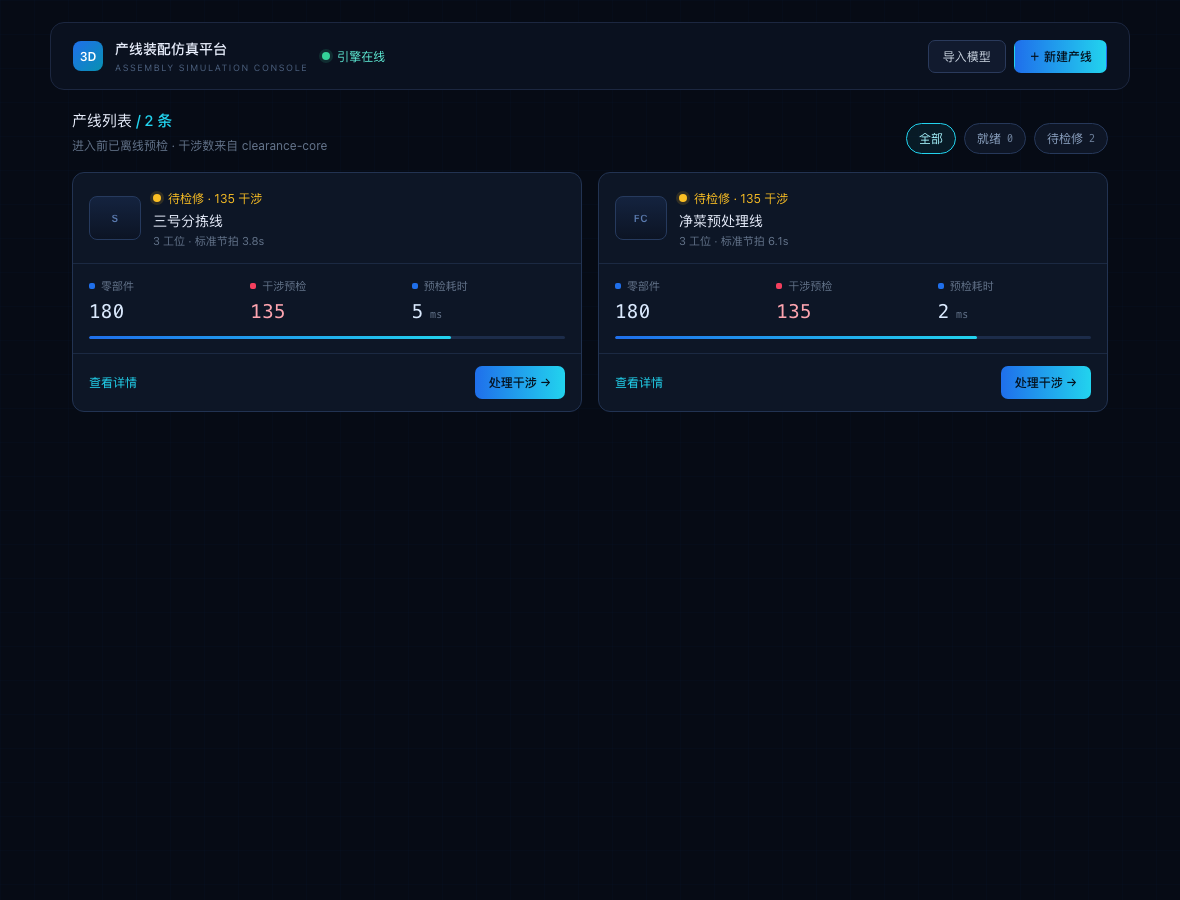
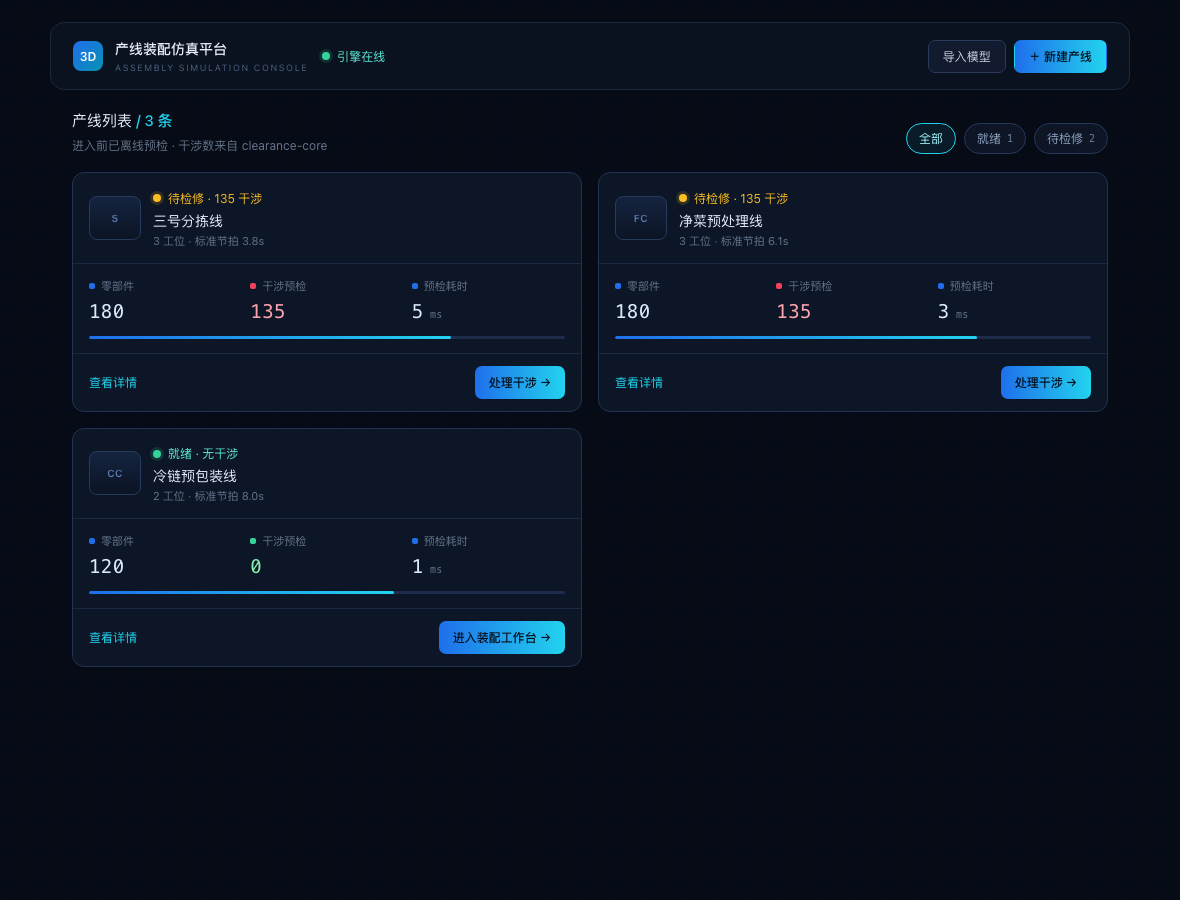
feat(data): 清洁就绪产线种子，E2E 呈现 design B1/B2 绿红双态
- interference-svc synthesizePartsForLine 对 kind=cold-chain 改全稀疏无 jitter 布局
  （4 单位间距、半长 0.5），离线预检稳定 0 干涉
- assembly-svc line-cold-01 启用（enabled: false → true），并把播种改为按 id 同步 enabled
  字段（demo 状态可演进，无需清盘仓储）
- 产线选择页 E2E 截图更新：3 条产线、就绪 1（冷链 0 命中）/ 待检修 2（分拣 135 / 净菜 135）
  真实对照 design 稿页面 A 的 B1 绿就绪 + B2 红告警双态
- FEAT-20260903-001 resolved

diff --git a/services/interference-svc/src/geometryCatalog.ts b/services/interference-svc/src/geometryCatalog.ts
@@ -7,6 +7,12 @@ import { obbFromCenterHalfExtents } from '@assemble/clearance-core';
  * 这里以确定性伪随机产出，用于验证「服务端离线批量干涉预检」整条链路。
  *
  * 布局策略与单测一致：分段密集、段间稀疏，让 BVH broad phase 体现剔除价值。
+ *
+ * 产线 kind 差异（FEAT-20260903-001）：
+ *   - `cold-chain` 采用「全稀疏无 jitter」布局 —— 代表优化装配的冷链线，
+ *     离线预检稳定 0 干涉（hitCount === 0），使产线选择页能呈现「就绪·无干涉(绿)」
+ *     与「待检修·干涉告警(红)」双态真实对照，匹配 design 稿页面 A 的 B1/B2 演示。
+ *   - 其余 kind 保持原 jitter 策略，制造真实命中以体现 BVH 检测价值。
  */
 export interface SyntheticPart {
   partId: string;
@@ -18,6 +24,23 @@ export function synthesizePartsForLine(
   totalParts: number,
   clusterSize = 12,
 ): SyntheticPart[] {
+  // 冷链线（装配优化线）走稀疏布局：间距 4 单位、半长 0.5 → 同线内无重叠
+  if (lineKind === 'cold-chain') {
+    const parts: SyntheticPart[] = [];
+    for (let i = 0; i < totalParts; i++) {
+      const col = i % 10;
+      const row = Math.floor(i / 10);
+      const cx = col * 4;
+      const cy = row * 4;
+      const cz = 0;
+      parts.push({
+        partId: `${lineKind}-${String(i).padStart(3, '0')}`,
+        obb: obbFromCenterHalfExtents([cx, cy, cz], [0.5, 0.5, 0.5]),
+      });
+    }
+    return parts;
+  }
+
   const parts: SyntheticPart[] = [];
   for (let i = 0; i < totalParts; i++) {
     const seg = Math.floor(i / clusterSize);

diff --git a/services/assembly-svc/src/repositories/index.ts b/services/assembly-svc/src/repositories/index.ts
@@ -47,7 +47,7 @@ export function buildSeedLines(): ProductionLine[] {
       name: '冷链预包装线',
       kind: 'cold-chain',
       modelVersion: 'sha3-v2.0.0',
-      enabled: false,
+      enabled: true,
       createdAt: now,
       updatedAt: now,
       stations: [
@@ -69,12 +69,17 @@ export function createAssemblyRepos(): AssemblyRepos {
   );
   const repos: AssemblyRepos = { lines };
 
-  // 首次运行播种
+  // 首次运行播种：空时插入种子；已有时按 id 同步种子最新字段（保证 demo 状态可演进）
   void (async () => {
     const existing = await lines.list();
-    if (existing.length === 0) {
-      for (const line of buildSeedLines()) {
-        await lines.upsert(line);
+    const byId = new Map(existing.map((l) => [l.id, l]));
+    for (const seed of buildSeedLines()) {
+      const cur = byId.get(seed.id);
+      if (!cur) {
+        await lines.upsert(seed);
+      } else if (cur.enabled !== seed.enabled) {
+        // 种子字段（如 enabled）变化时同步到仓储，便于 demo 状态演进无需清盘
+        await lines.upsert({ ...cur, enabled: seed.enabled, updatedAt: seed.updatedAt });
       }
     }
   })();

diff --git a/CHANGELOG.md b/CHANGELOG.md
@@ -61,13 +61,15 @@ M1 收尾 · 单条产线 Demo —— **后端服务层跑通 + 前端 SimEngine
   - 装配工作台：路由占位，演示 `createSimEngine()` 工厂注入（待 Babylon 接入替换 canvas）
   - 工程基线：vue3.5 + vue-router4 + vite5 + vue-tsc；dev 代理 `/lines → 7101` `/interference → 7102`
   - 单测 14 例全绿：10 例门面契约 + 4 例健康派生态（ready/attention/disabled 语义锁定）
-- 视觉验收截图归档：`docs/line-select-v0.2.0-frontend.png`
+- 视觉验收截图归档：`docs/line-select-v0.2.0-frontend.png`（含「就绪·无干涉」绿卡 +「待检修·135 干涉」红卡双态）
+- interference-svc 冷链线（`kind=cold-chain`）改用全稀疏无 jitter 布局，离线预检稳定 0 干涉
+- assembly-svc 启用 `line-cold-01`（冷链预包装线），并把播种逻辑改为按 id 同步 enabled 字段（demo 状态可演进）
 
 ### Verified
 
 - 5 服务 `GET /healthz` 均 200
 - interference 性能（HTTP 实测）：500 件 19.6ms、**2000 件 33.4ms**，BVH broad phase 剔除率 99.9%（远超 200 件 <200ms 门禁）
-- 产线选择页 E2E（playwright 截图）：前端真调通 assembly-svc(`/lines`)+ interference-svc(`/interference/offline`)，KPI（180 零部件 / 135 命中 / 5ms 预检耗时）实时来自 clearance-core
+- 产线选择页 E2E（playwright 截图）：前端真调通 assembly-svc(`/lines`)+ interference-svc(`/interference/offline`)，KPI（180 零部件 / 135 命中 / 5ms 预检耗时）实时来自 clearance-core；冷链线（cold-chain）实测 0 干涉→「就绪·无干涉」绿卡，绿/红双态真实对照 design 稿 B1/B2
 - 根 vitest 23 例回归绿（clearance-core 7 + sim-utils 3 × hoisted 3 + sim-platform 14 独立运行）
 - vue-tsc 0 错；vite build 53 modules transformed 0 警告
 

diff --git a/.learnings/FEATURE_REQUESTS.md b/.learnings/FEATURE_REQUESTS.md
@@ -64,7 +64,8 @@ complex
 
 **Logged**: 2026-09-03T00:10:00+08:00
 **Priority**: low
-**Status**: pending
+**Status**: resolved
+**Resolution**: 2026-09-03T00:14:00+08:00 on branch feat/0.2.0-sim-platform（采用走法 a：interference-svc cold-chain kind 改稀疏布局 0 命中 + assembly-svc 启用 line-cold-01 并把播种改为按 id 同步 enabled 字段；E2E 截图 docs/line-select-v0.2.0-frontend.png 确认绿/红双态真实对照 design 稿 B1/B2）
 **Area**: data
 
 ### Requested Capability
